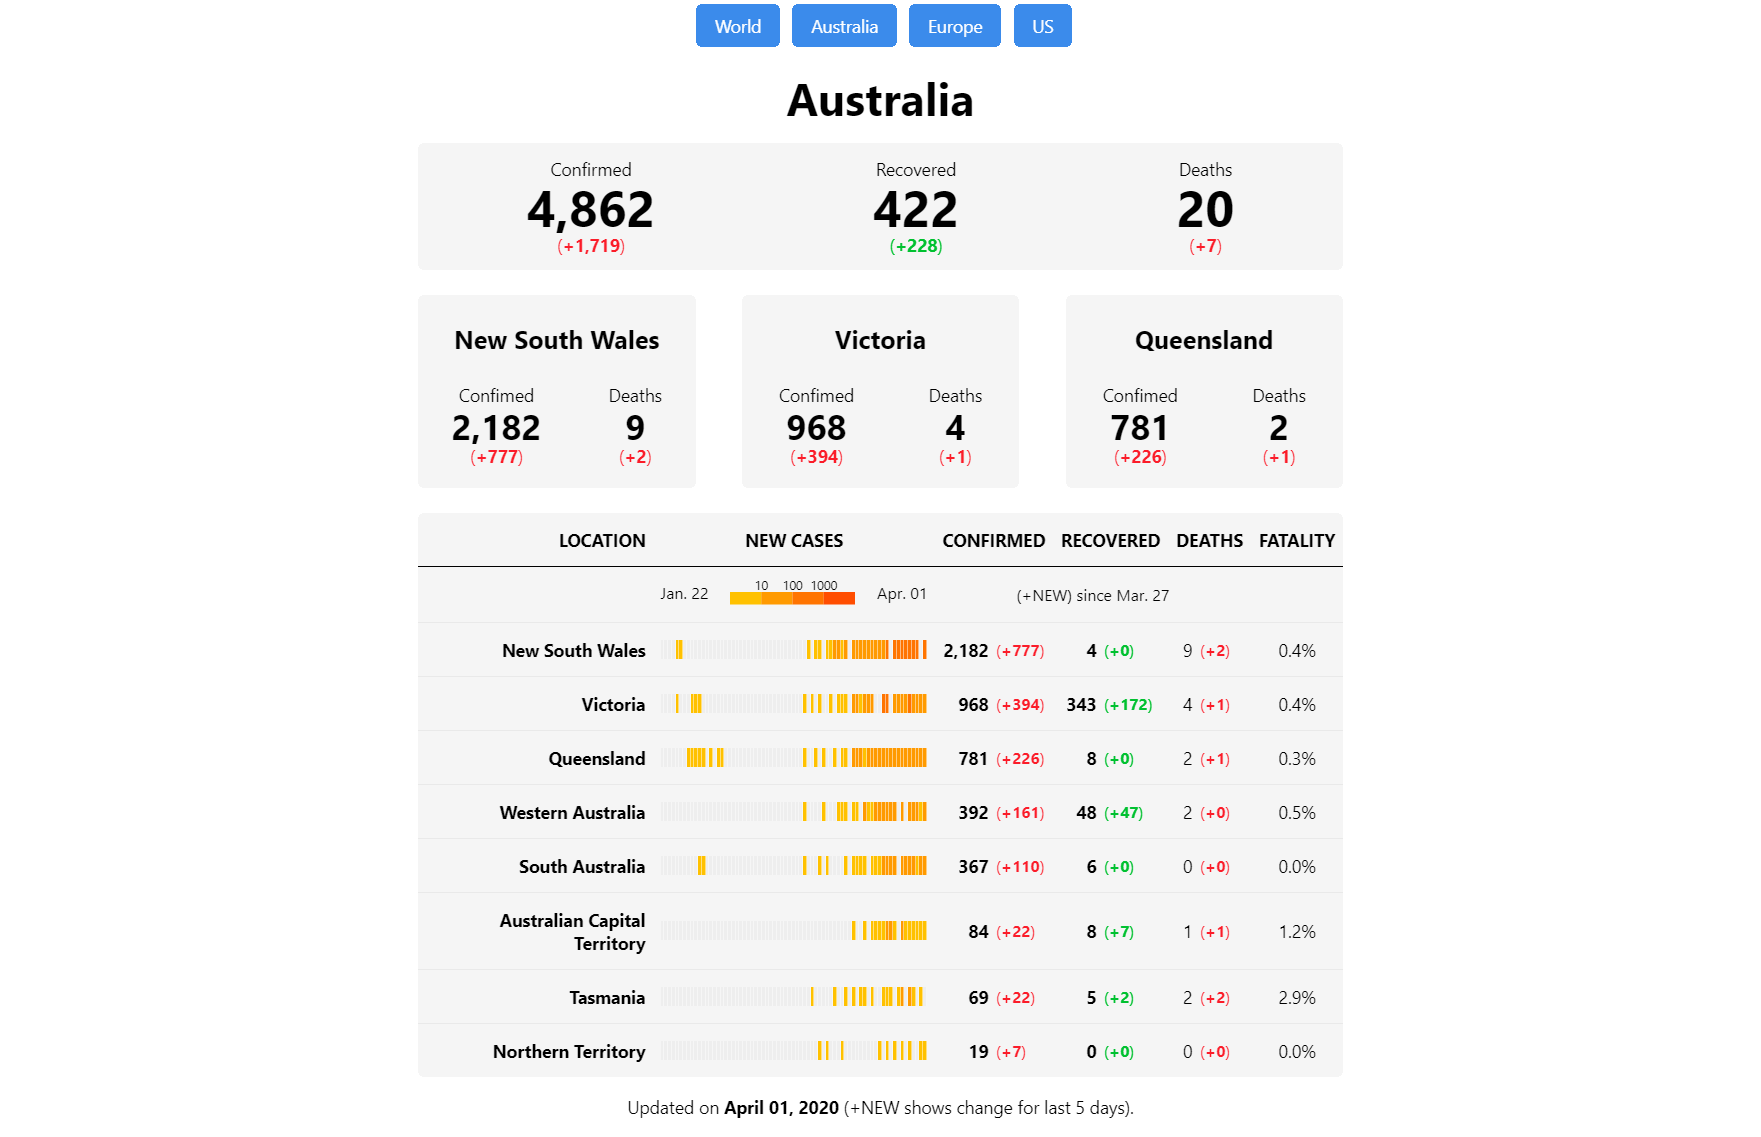
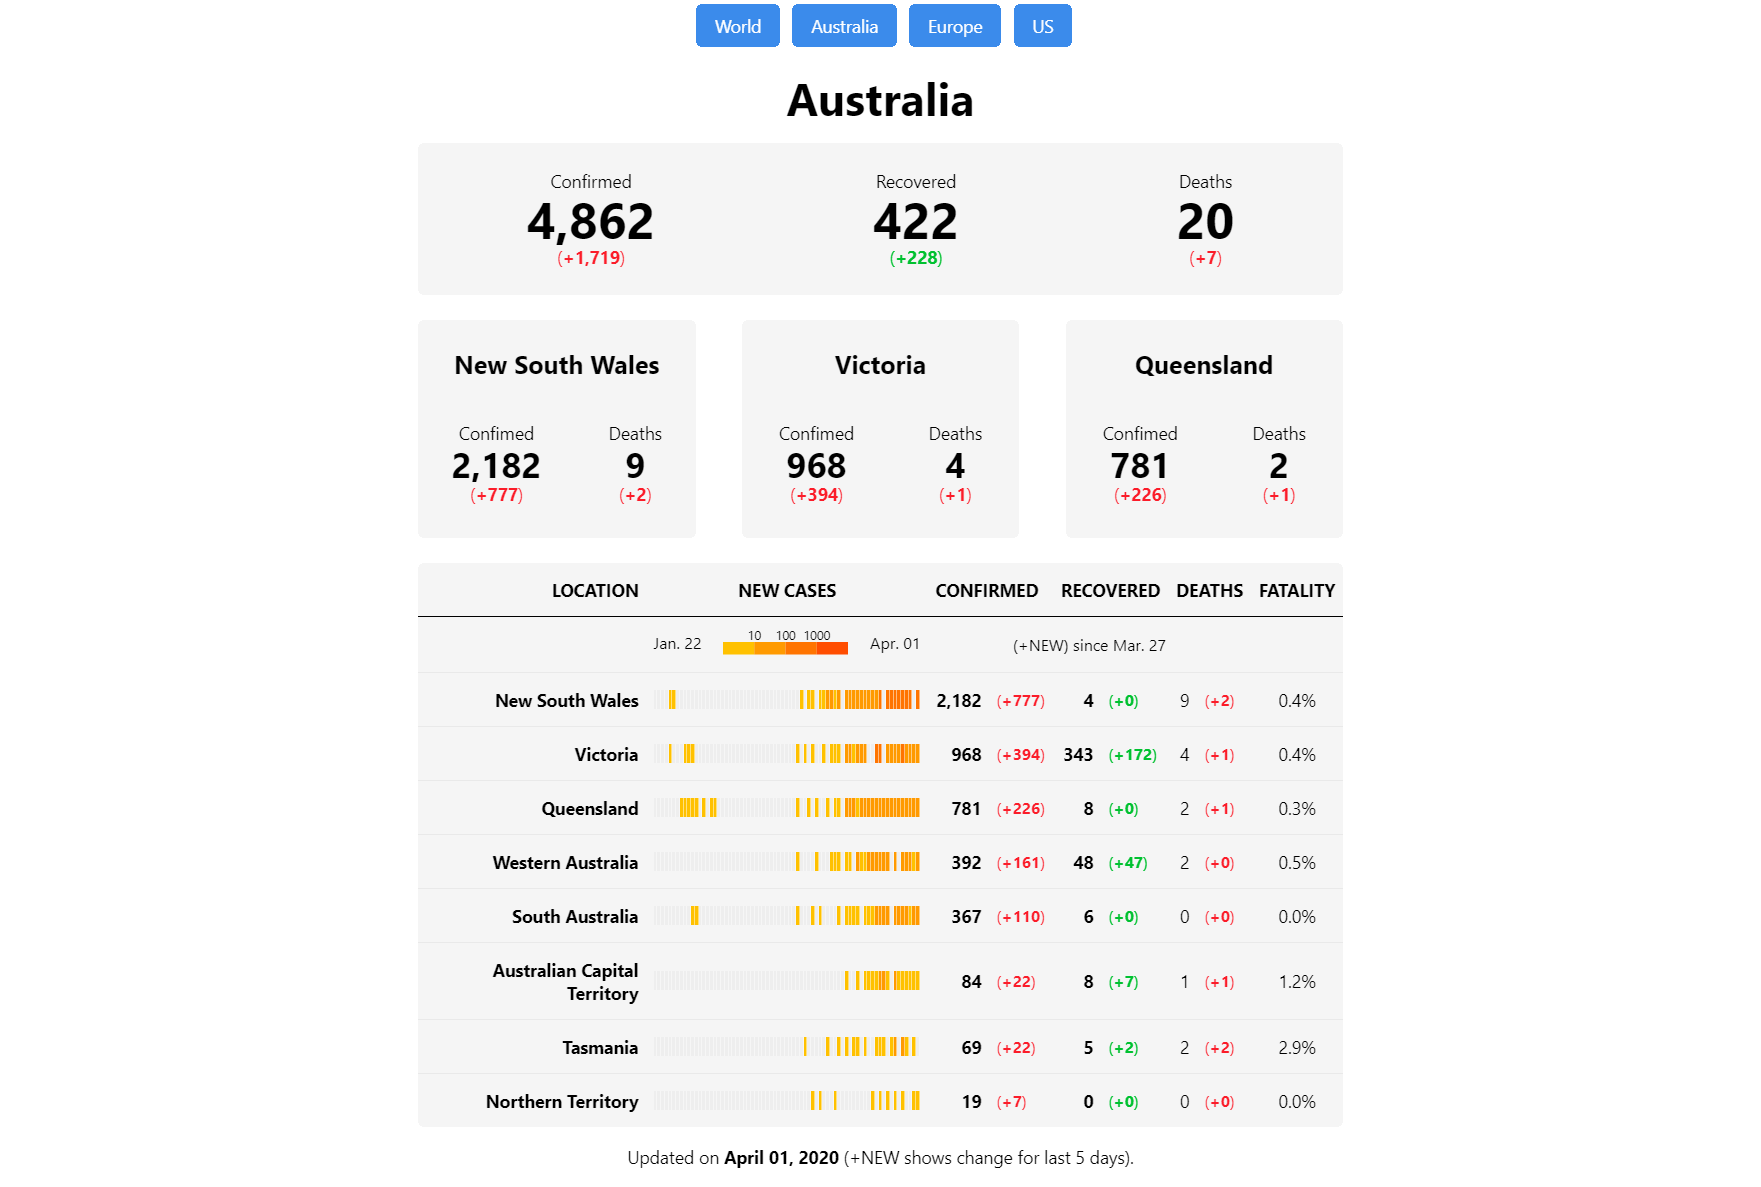
0.4.2: Improved CSS template + added screenshot

diff --git a/assets/css/keen.css b/assets/css/keen.css
@@ -4,16 +4,16 @@
     font-family: "Segoe UI", SegoeUI, Roboto, "Helvetica Neue", "Helvetica", "Tahoma", "Arial", sans-serif !important;
     font-size: 14px;
     line-height: 1.5;
-    margin: 0;
+    margin: 0 !important;
 }
 
 .keen.container {
     min-width: 480px;
     background: white;
-    padding-left: 15px;
-    padding-right: 15px;
-    margin-left: auto;
-    margin-right: auto;
+    padding-left: 15px !important;
+    padding-right: 15px !important;
+    margin-left: auto !important;
+    margin-right: auto !important;
 }
 
 @media (min-width: 768px) {
@@ -27,25 +27,23 @@
     text-decoration: none;
 }
 
-.keen hr {
-    margin-top: 20px;
-    margin-bottom: 20px;
-    border: 0;
-    border-top: 1px solid #eee;
+.keen div {
+    margin-top: 0 !important;
+    margin-bottom: 0 !important;
 }
 
 .keen h1,
 .keen h2,
 .keen h3 {
-    margin-top: 20px;
-    margin-bottom: 10px;
+    margin-top: 20px !important;
+    margin-bottom: 10px !important;
 }
 
 .keen h4,
 .keen h5,
 .keen h6 {
-    margin-top: 10px;
-    margin-bottom: 10px;
+    margin-top: 10px !important;
+    margin-bottom: 10px !important;
 }
 
 .keen h1 {
@@ -72,26 +70,11 @@
     font-size: 12px;
 }
 
-.keen .text-muted {
-    color: #777;
-}
-
-.keen small,
-.keen .small {
-    font-size: 85%;
-}
-
-.keen .lead {
-    margin-bottom: 20px;
-    font-size: 16px;
-    font-weight: 300;
-    line-height: 1.4;
-}
-
-@media (min-width: 768px) {
-    .keen .lead {
-        font-size: 21px;
-    }
+.keen hr {
+    margin-top: 20px !important;
+    margin-bottom: 20px !important;
+    border: 0;
+    border-top: 1px solid #eee;
 }
 
 /* IMG */
@@ -101,7 +84,7 @@
     width: 100% \9;
     max-width: 100%;
     height: auto;
-    padding: 4px;
+    padding: 4px !important;
     line-height: 1.42857143;
     background-color: #fff;
     border: 1px solid #ddd;
@@ -121,8 +104,8 @@
 }
 
 .keen .btn {
-    margin-left: 6px;
-    margin-bottom: 0;
+    margin-left: 6px !important;
+    margin-bottom: 0 !important;
     font-size: 14px;
     font-weight: 400;
     line-height: 1.5;
@@ -134,7 +117,7 @@
     background-image: none;
     border: 1px solid transparent;
     border-radius: 5px;
-    padding: 0.5em 1em;
+    padding: 0.5em 1em !important;
 }
 
 .keen .btn:hover,
@@ -174,12 +157,34 @@
 /* CUSTOM - General */
 
 .keen .flex-container {
-    margin-top: 20px;
+    margin-top: 20px !important;
 }
 
 .keen .flex {
     display: flex;
     justify-content: space-between;
+}
+
+.keen .lead {
+    margin-bottom: 20px !important;
+    font-size: 16px;
+    font-weight: 300;
+    line-height: 1.4;
+}
+
+@media (min-width: 768px) {
+    .keen .lead {
+        font-size: 21px;
+    }
+}
+
+.keen small,
+.keen .small {
+    font-size: 85%;
+}
+
+.keen .text-muted {
+    color: #777;
 }
 
 .keen .text-center {
@@ -230,7 +235,7 @@
     justify-content: space-around;
     text-align: center;
     background: #f5f5f5;
-    padding: 10px 0 !important;
+    padding: 20px 0 !important;
     margin: 5px 0 !important;
     min-width: 180px;
     border-radius: 5px;
@@ -270,7 +275,7 @@
     width: 100%;
     background: #f5f5f5;
     font-size: 14px;
-    margin-top: 20px;
+    margin-top: 20px !important;
     border-radius: 5px;
     border-collapse: collapse;
     text-align: right;
@@ -290,6 +295,7 @@
 
 .keen .table thead th,
 .keen .table tbody td {
+    border: none;
     padding: 12px 6px;
 }
 
